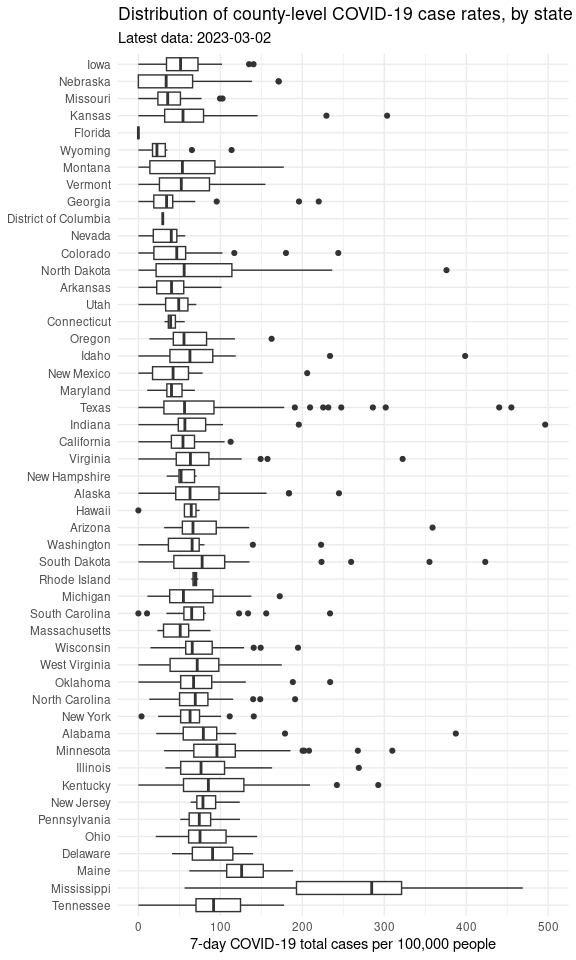
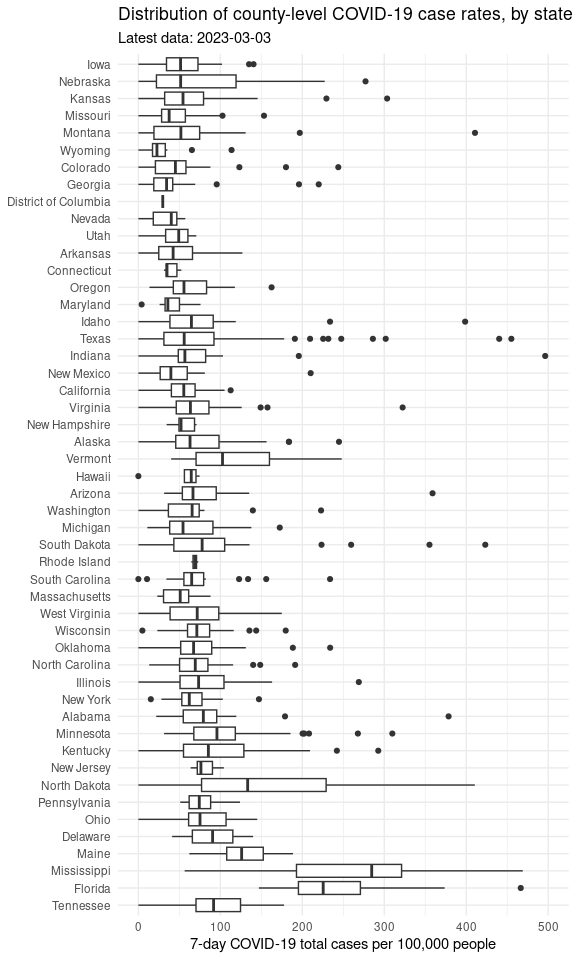
Updated report

diff --git a/README.md b/README.md
@@ -1,7 +1,7 @@
 Minnesota COVID Report
 ================
 
-Report last run: 2023-03-03 22:20:11
+Report last run: 2023-03-04 22:18:41
 
 ## Introduction
 
@@ -114,16 +114,16 @@ rate_data %>%
 | Logan      | Illinois       |   28618 |      43668 |
 | Adams      | Illinois       |   65435 |      41614 |
 | Grant      | West Virginia  |   11568 |      40716 |
-| San Juan   | New Mexico     |  123958 |      40640 |
-| Morton     | North Dakota   |   31364 |      39781 |
+| San Juan   | New Mexico     |  123958 |      40642 |
+| Morton     | North Dakota   |   31364 |      39864 |
 | Mercer     | Kentucky       |   21933 |      38964 |
-| Nassau     | New York       | 1356924 |      38567 |
+| Nassau     | New York       | 1356924 |      38573 |
+| Stark      | North Dakota   |   31489 |      37896 |
 | Surry      | North Carolina |   71783 |      37886 |
-| Dorchester | South Carolina |  162809 |      37879 |
-| Stark      | North Dakota   |   31489 |      37848 |
-| Brown      | Wisconsin      |  264542 |      37783 |
+| Dorchester | South Carolina |  162809 |      37878 |
+| Brown      | Wisconsin      |  264542 |      37793 |
 | Jackson    | Kentucky       |   13329 |      37692 |
 | Carter     | Tennessee      |   56391 |      37667 |
-| Blaine     | Montana        |    6681 |      37599 |
+| Blaine     | Montana        |    6681 |      37629 |
 | Greene     | Tennessee      |   69069 |      37490 |
-| Dewey      | South Dakota   |    5892 |      37220 |
+| Sioux      | North Dakota   |    4230 |      37258 |
